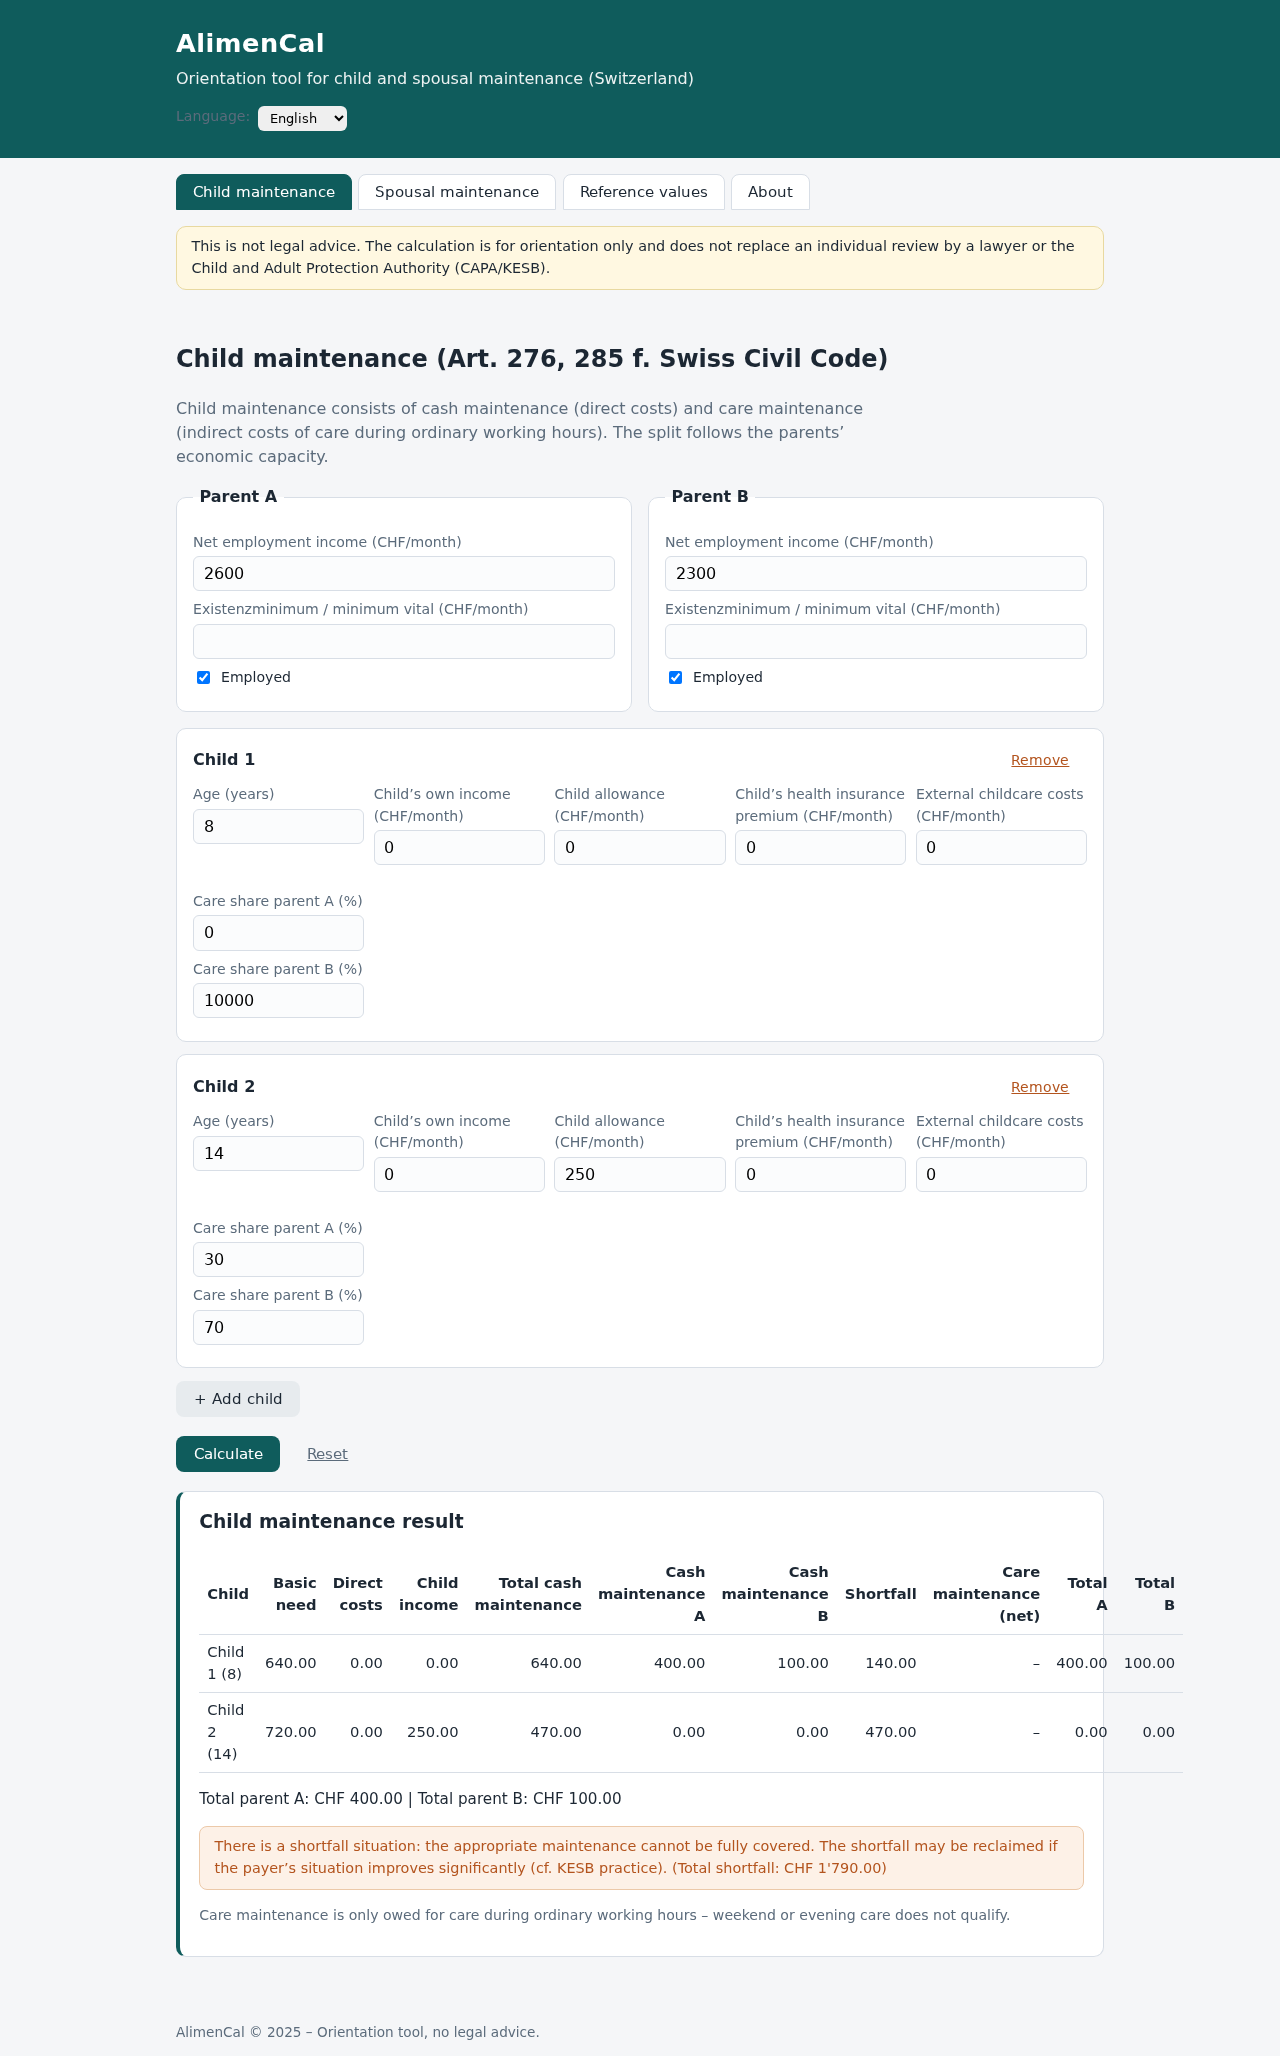
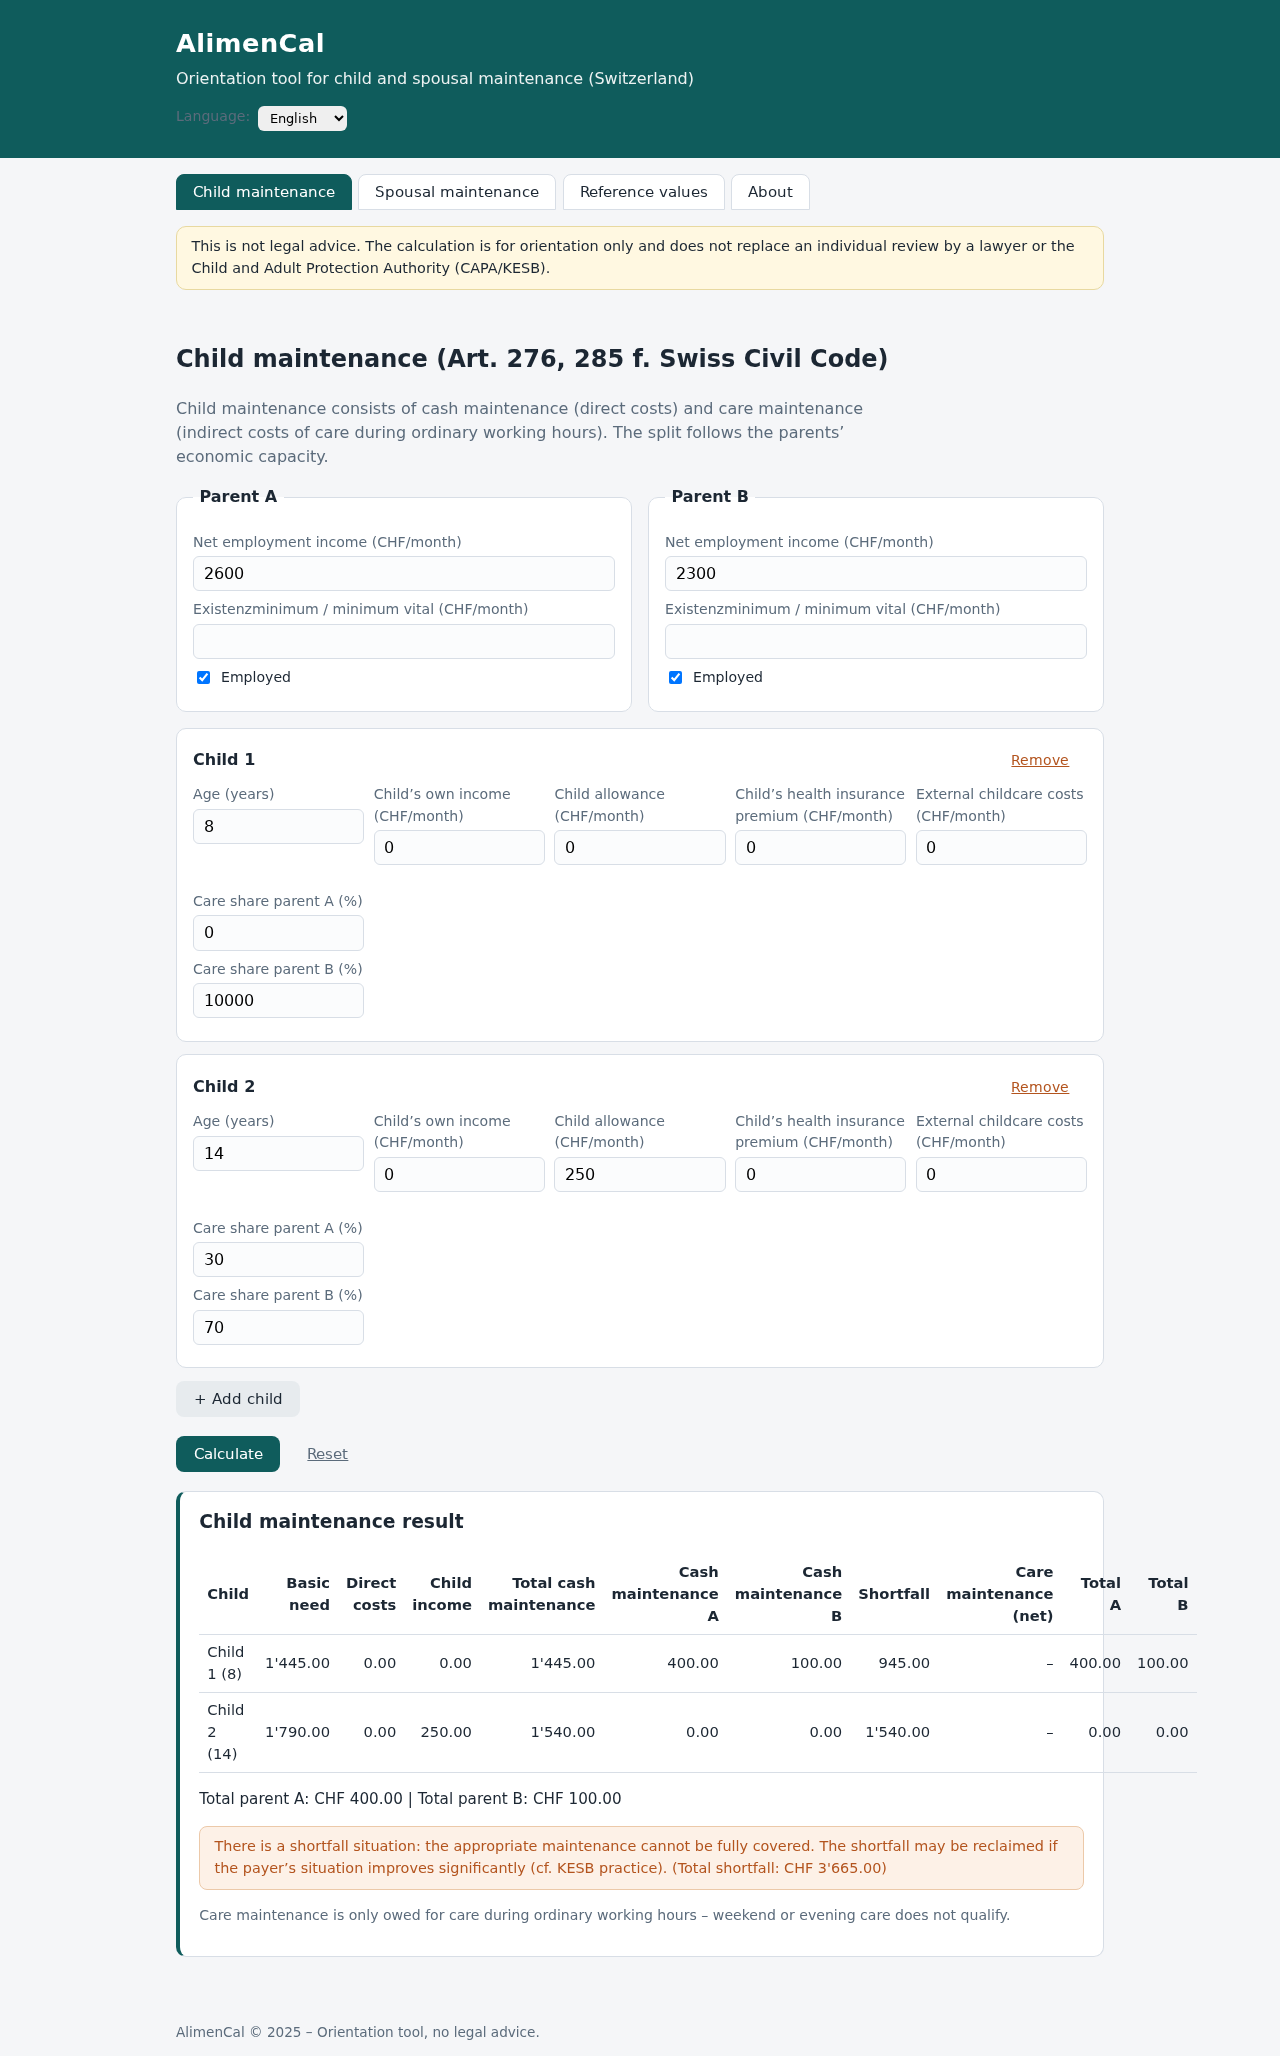
Richtwerte: Zürcher Kinderkosten-Tabelle 1.3.2025 als Default
- Grundbedarf Kind nach Zürcher Kinderkosten-Tabelle vom 1. März 2025
  (Einzelkind): 1310/1445/1790 CHF je Altersklasse (Gesamtkosten minus
  enthaltener Durchschnitts-KK-Prämie von CHF 130, da die Prämie in der
  App separat erfasst wird - verhindert Doppelerfassung)
- Quellen- und Methodendokumentation in js/config.js und README
  (inkl. BGer 147 III 265: zweistufig-konkrete Methode verbindlich,
  Zürcher Tabelle per 2026 eingestellt; Kanton Schaffhausen ohne
  publizierte kantonale Tabelle)
- Tests auf neue Werte angepasst (46 Tests grün), Screenshots erneuert

diff --git a/tests/calculator.test.js b/tests/calculator.test.js
@@ -10,14 +10,16 @@ var assert = require('assert');
 var CFG = {
   defaultExistenzminimumEmployed: 2200,
   defaultExistenzminimumNotEmployed: 2000,
+  // Quelle: Zürcher Kinderkosten-Tabelle 1.3.2025, Einzelkind, Gesamtkosten
+  // minus enthaltener Durchschnittsprämie von CHF 130 (separat erfasst).
   childNeedTable: [
-    { fromAge: 0, toAge: 6, basicNeed: 500, careSupport: 1100 },
-    { fromAge: 7, toAge: 12, basicNeed: 640, careSupport: 900 },
-    { fromAge: 13, toAge: 17, basicNeed: 720, careSupport: 700 },
-    { fromAge: 18, toAge: 99, basicNeed: 900, careSupport: 0 }
+    { fromAge: 0, toAge: 6, basicNeed: 1310, careSupport: 1100 },
+    { fromAge: 7, toAge: 12, basicNeed: 1445, careSupport: 900 },
+    { fromAge: 13, toAge: 17, basicNeed: 1790, careSupport: 700 },
+    { fromAge: 18, toAge: 99, basicNeed: 1790, careSupport: 0 }
   ],
   careSupportMaxAge: 17,
-  fallbackChildBasicNeed: 600,
+  fallbackChildBasicNeed: 1310,
   defaultSpousalStandard: 4000
 };
 
@@ -50,10 +52,10 @@ ok('Leere Betreuungsanteile => 50/50', close(sharesEmpty.a, 0.5));
 var sharesSum2 = calc.normalizeCareShares({ careShareParentA: 80, careShareParentB: 80 });
 ok('Summe >100% wird skaliert', close(sharesSum2.a, 0.5) && close(sharesSum2.b, 0.5));
 
-ok('Grundbedarf Kind 8 Jahre = 640', calc.childBasicNeed({ age: 8 }, CFG) === 640);
-ok('Grundbedarf Kind 3 Jahre = 500', calc.childBasicNeed({ age: 3 }, CFG) === 500);
-ok('Grundbedarf Kind 17 Jahre = 720', calc.childBasicNeed({ age: 17 }, CFG) === 720);
-ok('Grundbedarf Kind 18 Jahre = 900', calc.childBasicNeed({ age: 18 }, CFG) === 900);
+ok('Grundbedarf Kind 8 Jahre = 1445', calc.childBasicNeed({ age: 8 }, CFG) === 1445);
+ok('Grundbedarf Kind 3 Jahre = 1310', calc.childBasicNeed({ age: 3 }, CFG) === 1310);
+ok('Grundbedarf Kind 17 Jahre = 1790', calc.childBasicNeed({ age: 17 }, CFG) === 1790);
+ok('Grundbedarf Kind 18 Jahre = 1790', calc.childBasicNeed({ age: 18 }, CFG) === 1790);
 ok('Betreuungsunterhalt-Richtwert Kind 8 = 900',
   calc.childCareSupportRichtwert({ age: 8 }, CFG) === 900);
 ok('Betreuungsunterhalt ab 18 = 0', calc.childCareSupportRichtwert({ age: 19 }, CFG) === 0);
@@ -65,9 +67,9 @@ ok('Betreuungsunterhalt ab 18 = 0', calc.childCareSupportRichtwert({ age: 19 }, 
  * Elternteil B: Einkommen 3000, Existenzminimum 2200 -> verfügbar 800
  * Kind 8 Jahre, 100% Betreuung bei B, keine direkten Kosten, keine Zulage.
  *
- * Grundbedarf 640; Aufteilung nach verfügbarem Einkommen:
+ * Grundbedarf 1445; Aufteilung nach verfügbarem Einkommen:
  *   Anteil A = 3800/4600 = 0.826..., Anteil B = 800/4600
- * Barunterhalt A ~ 528.70, B ~ 111.30
+ * Barunterhalt A ~ 1192.83, B ~ 252.17
  * Betreuungsunterhalt: Richtwert 900, B betreut 100% => A zahlt netto 900 an B.
  */
 
@@ -85,9 +87,9 @@ var inputStd = {
 var resStd = calc.calculateChildSupport(inputStd, CFG);
 var childStd = resStd.perChild[0];
 
-ok('Standardfall: Barunterhalt total = 640', close(childStd.barTotal, 640));
+ok('Standardfall: Barunterhalt total = 1445', close(childStd.barTotal, 1445));
 ok('Standardfall: barFromA + barFromB = barTotal',
-  close(childStd.barFromA + childStd.barFromB, 640));
+  close(childStd.barFromA + childStd.barFromB, 1445));
 ok('Standardfall: Anteil A > Anteil B (Leistungsfähigkeit)',
   childStd.barFromA > childStd.barFromB);
 ok('Standardfall: Betreuungsunterhalt A->B = 900',
@@ -95,7 +97,7 @@ ok('Standardfall: Betreuungsunterhalt A->B = 900',
 ok('Standardfall: Total A = Bar A + Betreuung A',
   close(childStd.totalFromA, childStd.barFromA + 900));
 ok('Standardfall: keine Mangellage', !resStd.mangellage);
-ok('Standardfall: Total A ~ 1428.70', close(childStd.totalFromA, 640 * (3800 / 4600) + 900, 0.05));
+ok('Standardfall: Total A ~ 2092.83', close(childStd.totalFromA, 1445 * (3800 / 4600) + 900, 0.05));
 
 /* ---------- Kindeseinkommen und direkte Kosten ---------- */
 
@@ -113,22 +115,22 @@ var inputCosts = {
 var resCosts = calc.calculateChildSupport(inputCosts, CFG);
 var childCosts = resCosts.perChild[0];
 
-// Grundbedarf 500 + direkte Kosten 550 - Zulage 250 = 800
-ok('Direkte Kosten: Grundbedarf = 500', close(childCosts.basicNeed, 500));
+// Grundbedarf 1310 + direkte Kosten 550 - Zulage 250 = 1610
+ok('Direkte Kosten: Grundbedarf = 1310', close(childCosts.basicNeed, 1310));
 ok('Direkte Kosten: direkte Kosten = 550', close(childCosts.directCosts, 550));
-ok('Direkte Kosten: Barunterhalt total = 800', close(childCosts.barTotal, 800));
+ok('Direkte Kosten: Barunterhalt total = 1610', close(childCosts.barTotal, 1610));
 ok('Direkte Kosten: 50/50-Betreuung => kein netto Betreuungsunterhalt',
   close(childCosts.careNetFromAToB, 0) && close(childCosts.careNetFromBToA, 0));
 ok('Direkte Kosten: Aufteilung nach Leistungsfähigkeit (7800/13600 bzw. 5800/13600)',
-  close(childCosts.barFromA, 800 * (7800 / 13600), 0.05) &&
-  close(childCosts.barFromB, 800 * (5800 / 13600), 0.05));
+  close(childCosts.barFromA, 1610 * (7800 / 13600), 0.05) &&
+  close(childCosts.barFromB, 1610 * (5800 / 13600), 0.05));
 
 /* ---------- Mangellage ---------- */
 
 /*
  * A: Einkommen 2600, Existenzminimum 2200 -> verfügbar 400
  * B: Einkommen 2300, Existenzminimum 2200 -> verfügbar 100
- * Kind 8 Jahre, B betreut 100%: Bar 640, Betreuungsunterhalt 900.
+ * Kind 8 Jahre, B betreut 100%: Bar 1445, Betreuungsunterhalt 900.
  * Verfügbares Einkommen deckt weder Bar noch Betreuung -> Manko.
  */
 
@@ -151,8 +153,8 @@ ok('Mangellage: A zahlt maximal verfügbares Einkommen',
   close(childManko.barFromA + childManko.careNetFromAToB, 400, 0.01));
 ok('Mangellage: B zahlt maximal verfügbares Einkommen',
   close(childManko.barFromB + childManko.careNetFromBToA, 100, 0.01));
-ok('Mangellage: Manko total = 1540 - 500 = 1040',
-  close(resManko.totals.totalManko, 640 + 900 - 400 - 100, 0.02));
+ok('Mangellage: Manko total = 2345 - 500 = 1845',
+  close(resManko.totals.totalManko, 1445 + 900 - 400 - 100, 0.02));
 
 /* ---------- Mehrere Kinder ---------- */
 
@@ -172,8 +174,8 @@ var inputMulti = {
 var resMulti = calc.calculateChildSupport(inputMulti, CFG);
 
 ok('Mehrere Kinder: zwei Resultate', resMulti.perChild.length === 2);
-ok('Mehrere Kinder: Grundbedarf 500/640',
-  close(resMulti.perChild[0].basicNeed, 500) && close(resMulti.perChild[1].basicNeed, 640));
+ok('Mehrere Kinder: Grundbedarf 1310/1445',
+  close(resMulti.perChild[0].basicNeed, 1310) && close(resMulti.perChild[1].basicNeed, 1445));
 ok('Mehrere Kinder: Totale konsistent',
   close(resMulti.totals.totalA,
     resMulti.perChild[0].totalFromA + resMulti.perChild[1].totalFromA, 0.02));
@@ -197,7 +199,7 @@ ok('Default-Existenzminimum erwerbstätig = 2200',
 ok('Default-Existenzminimum nicht erwerbstätig = 2000',
   close(resDefault.budgets.b.existenzminimum, 2000));
 ok('Bei nur einem leistungsfähigen Elternteil trägt dieser den Barunterhalt',
-  close(resDefault.perChild[0].barFromA, 640, 0.01));
+  close(resDefault.perChild[0].barFromA, 1445, 0.01));
 
 /* ---------- Ehegattenunterhalt: Überschussfall ---------- */
 

diff --git a/js/config.js b/js/config.js
@@ -1,9 +1,22 @@
 /*
  * AlimenCal – Konfiguration (Richtwerte als Default, überschreibbar).
  *
- * Die Werte sind typische Orientierungswerte der kantonalen Praxis
- * (vgl. KOKES-Leitfaden, Zürcher Kinderkostentabelle). Sie sind bewusst
- * konservativ und konsistent gewählt und MÜSSEN vor einem produktiven
+ * Datenstand und Quellen (Stand: März 2025):
+ *  - Grundbedarf Kind: Zürcher Kinderkosten-Tabelle vom 1. März 2025
+ *    (Amt für Jugend und Berufsberatung des Kantons Zürich), Einzelkind-Werte,
+ *    inkl. Krankenkassenprämien-Position; ohne Drittbetreuungskosten und
+ *    ohne Betreuungsunterhalt. Die Tabelle kann über das 18. Altersjahr bis
+ *    zum 21. Altersjahr angewendet werden. Per 2026 wird die Zürcher Tabelle
+ *    nicht mehr weitergeführt; massgeblich ist seit BGer 147 III 265 die
+ *    zweistufig-konkrete Methode (BGE 140 III 337), weshalb die Werte nur als
+ *    Vergleichsmasse dienen.
+ *  - Existenzminimum: betreibungsrechtliche Richtlinien (KK-BSV, Art. 93
+ *    SchKG), typische Werte; kantonale Praxis ist massgebend und kann
+ *    abweichen – insb. gilt das für Schaffhausen (keine publizierte
+ *    kantonale Tabelle; die KESB SH wendet dasselbe Modell wie das
+ *    Kantonsgericht SH an, dessen Ansätze nicht publiziert sind).
+ *
+ * Alle Werte sind Orientierungswerte und MÜSSEN vor einem produktiven
  * Einsatz an die massgebliche kantonale Praxis (z. B. KESB Schaffhausen /
  * Kantonsgericht Schaffhausen) angepasst bzw. verifiziert werden.
  */
@@ -17,22 +30,31 @@ AlimenCal.config = {
   defaultExistenzminimumEmployed: 2200,
   defaultExistenzminimumNotEmployed: 2000,
 
-  // Grundbedarf des Kindes (Barunterhalt ohne direkte Kosten), CHF/Monat,
-  // gestaffelt nach Alter (Jahre), angelehnt an die Zürcher
-  // Kinderkostentabelle (konservative Werte).
+  // Grundbedarf des Kindes (Barunterhalt OHNE Krankenkassenprämie und ohne
+  // Fremdbetreuung), CHF/Monat, gestaffelt nach Altersjahren (vollendete
+  // Altersjahre).
+  // Quelle: Zürcher Kinderkosten-Tabelle vom 1. März 2025 (Einzelkind,
+  // Gesamtkosten inkl. Wohnen): 1.–4. Altersjahr Fr. 1440.–, 5.–12.
+  // Altersjahr Fr. 1575.–, 13.–18. Altersjahr Fr. 1920.–.
+  // Die Tabellenwerte beinhalten eine durchschnittliche Kinder-Krankenkassen-
+  // prämie von Fr. 130.–; diese wird hier abgezogen, weil die effektive
+  // Prämie in der App separat erfasst wird (verhindert Doppelerfassung).
+  // Ergibt: 1440-130=1310, 1575-130=1445, 1920-130=1790.
+  // Die Tabelle kann über das 18. Altersjahr bis zum 21. Altersjahr
+  // angewendet werden. Fremdbetreuungskosten sind separat zu erfassen.
   childNeedTable: [
-    { fromAge: 0,  toAge: 6,  basicNeed: 500,  careSupport: 1100 },
-    { fromAge: 7,  toAge: 12, basicNeed: 640,  careSupport: 900 },
-    { fromAge: 13, toAge: 17, basicNeed: 720,  careSupport: 700 },
-    { fromAge: 18, toAge: 99, basicNeed: 900,   careSupport: 0 }
+    { fromAge: 0,  toAge: 6,  basicNeed: 1310, careSupport: 1100 },
+    { fromAge: 7,  toAge: 12, basicNeed: 1445, careSupport: 900 },
+    { fromAge: 13, toAge: 17, basicNeed: 1790, careSupport: 700 },
+    { fromAge: 18, toAge: 99, basicNeed: 1790, careSupport: 0 }
   ],
 
-  // Betreuungsunterhalt nur bis zu diesem Alter, falls die Tabelle keinen
-  // Wert vorsieht (ab 18 ohnehin 0).
+  // Betreuungsunterhalt nur bis zu diesem Alter (Richtwert-Logik),
+  // falls die Tabelle keinen Wert vorsieht (ab 18 ohnehin 0).
   careSupportMaxAge: 17,
 
   // Fallback, wenn keine Alterszeile passt
-  fallbackChildBasicNeed: 600,
+  fallbackChildBasicNeed: 1310,
 
   // Nachehelicher/trennungsbedingter Unterhalt (Orientierungswert)
   defaultSpousalStandard: 4000

diff --git a/README.md b/README.md
@@ -39,6 +39,26 @@ js/i18n/{de,fr,it,en}.js  Sprachdateien
 tests/calculator.test.js  Unit-Tests (node)
 ```
 
+## Verwendete Richtwerte (Default)
+
+Die mitgelieferten Default-Richtwerte basieren auf folgenden Quellen (Stand: März 2025):
+
+| Position | Wert | Quelle |
+|---|---|---|
+| Grundbedarf Kind 1.–6. Altersjahr | CHF 1310/Monat | Zürcher Kinderkosten-Tabelle vom 1. März 2025 (Einzelkind, Gesamtkosten CHF 1440 inkl. Wohnkosten) |
+| Grundbedarf Kind 7.–12. Altersjahr | CHF 1445/Monat | Zürcher Kinderkosten-Tabelle 2025 (Einzelkind, CHF 1575) |
+| Grundbedarf Kind 13.–17. Altersjahr | CHF 1790/Monat | Zürcher Kinderkosten-Tabelle 2025 (Einzelkind, CHF 1920) |
+| Grundbedarf ab 18. Altersjahr | CHF 1790/Monat | Zürcher Kinderkosten-Tabelle 2025 (anwendbar bis 21. Altersjahr) |
+| Betreuungsunterhalt (Richtwerte) | CHF 700–1100 je Altersklasse | Orientierungswerte, kantonale Praxis massgebend |
+| Existenzminima (Eltern) | CHF 2000/2200 | betreibungsrechtliche Richtlinien (KK-BSV, Art. 93 SchKG) als Orientierung |
+
+**Wichtige Hinweise zu den Werten:**
+
+- Die Zürcher Tabellenwerte beinhalten eine durchschnittliche Kinder-Krankenkassenprämie von CHF 130/Monat, die hier abgezogen wird, weil die effektive Prämie in der App separat erfasst wird (verhindert Doppelerfassung).
+- Die Tabelle kann über das 18. Altersjahr bis zum 21. Altersjahr angewendet werden, sofern der junge Erwachsene im Haushalt eines Elternteils lebt.
+- Per 2026 wird die Zürcher Kinderkosten-Tabelle nicht mehr weitergeführt. Seit dem Leitentscheid **BGer 147 III 265** ist die **zweistufig-konkrete Methode** (BGE 140 III 337) verbindlich; pauschalierende Tabellen sind unzulässig. Die Werte dienen deshalb nur noch als Vergleichsmasse und müssen im Einzelfall individuell begründet werden.
+- **Kanton Schaffhausen**: Es existiert keine publizierte kantonale Unterhaltstabelle. Die KESB Schaffhausen wendet zwar dasselbe Berechnungsmodell wie das Kantonsgericht Schaffhausen an (Merkblatt zum neuen Unterhaltsrecht, Ziff. 4), die konkreten Ansätze sind jedoch nicht veröffentlicht. Für Schaffhauser Fälle müssen die Werte daher zwingend über die Konfiguration angepasst und mit der KESB (Mühlentalstrasse 65A, 8200 Schaffhausen) oder anwaltlich verifiziert werden.
+
 ## Rechtlicher Hinweis (Disclaimer)
 
 AlimenCal ist **keine Rechtsberatung** und liefert keine verbindlichen Resultate. Die Berechnung dient ausschliesslich der ersten Orientierung. Massgebend sind stets die konkreten Umstände des Einzelfalls sowie die Praxis der zuständigen Gerichte und der Kindes- und Erwachsenenschutzbehörde (KESB). Die mitgelieferten Richtwerte sind typische Orientierungswerte und müssen vor jedem produktiven Einsatz an die massgebliche kantonale Praxis (z. B. KESB/Kantonsgericht Schaffhausen) angepasst und verifiziert werden.
